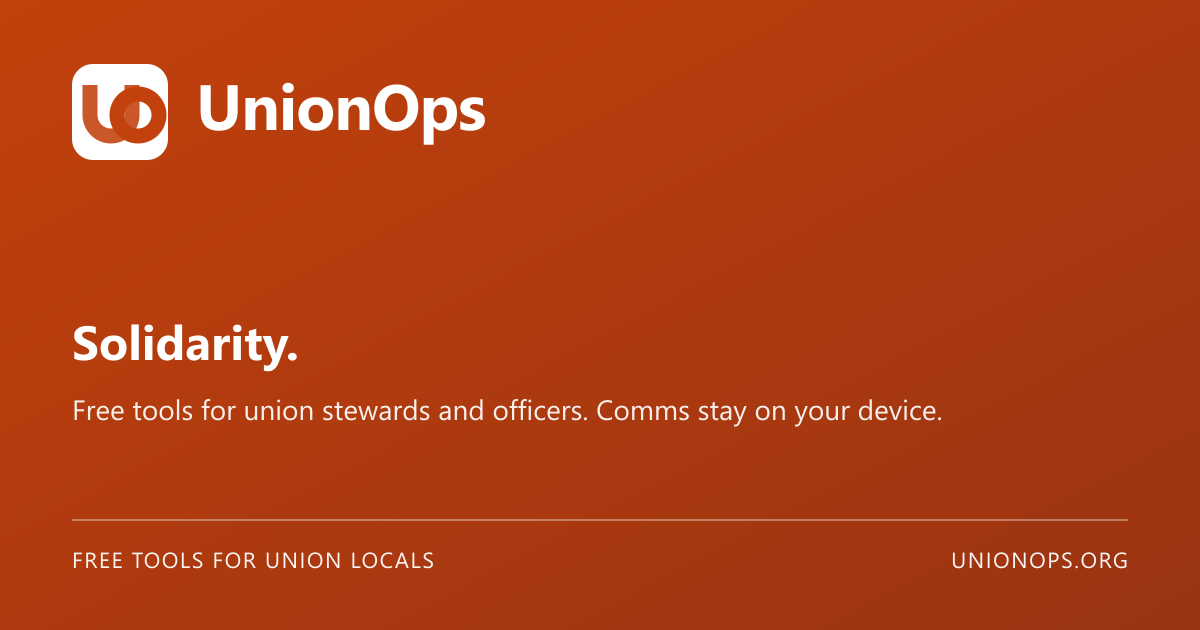
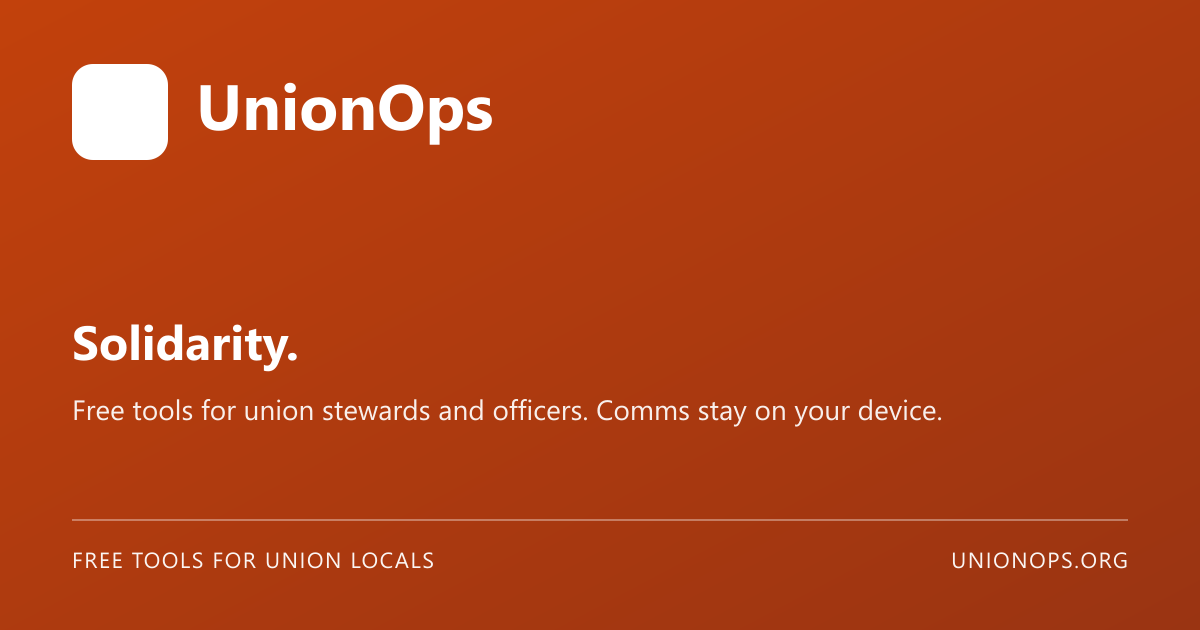
feat(brand): use interlocking PNG mark with CSS-mask tint
Drive UnionOpsMark from logo-mark-interlock.png (kept beside the SVG set), overlay Brand Kit colours, and swap to a white back plate on dark / Brand Kit preview.

Changed region(s): [[0.2158, 0.1206, 0.4317, 0.2413], [0.0617, 0.1206, 0.1542, 0.2413]]

diff --git a/src/components/brand/UnionOpsMark.tsx b/src/components/brand/UnionOpsMark.tsx
@@ -2,13 +2,7 @@
 
 import { cn } from "@/lib/utils";
 import { BRAND_COLORS } from "@/lib/constants/brand";
-import {
-  UNIONOPS_MARK_VIEWBOX,
-  UNIONOPS_O,
-  UNIONOPS_U_OPACITY,
-  UNIONOPS_U_PATH,
-  UNIONOPS_U_STROKE_WIDTH,
-} from "@/lib/brand/unionops-mark-geometry";
+import { UNIONOPS_LOGOS } from "@/lib/constants/unionPresets";
 
 const sizePx = {
   sm: 32,
@@ -18,19 +12,21 @@ const sizePx = {
 
 interface UnionOpsMarkProps {
   primaryColor?: string;
-  /** Graphics accent — colours the interlocking u (and plated glyphs). */
+  /** Graphics accent — glyph colour on the primary plate (light chrome). */
   secondaryColor?: string;
   size?: "sm" | "md" | "lg";
   className?: string;
-  /** Flat two-tone mark for dark / brand-coloured backgrounds (no plate). */
+  /**
+   * Dark / brand backgrounds: white back plate + primary glyph.
+   * Light chrome: primary plate + graphics-accent glyph.
+   */
   onDark?: boolean;
   title?: string;
 }
 
 /**
- * Inline UnionOps interlocking u+o mark.
- * Primary → o; graphics accent (secondary) → u.
- * Light chrome uses a primary plate so a light accent stays legible.
+ * UnionOps interlocking u+o mark — PNG base with CSS-mask colour overlay.
+ * Asset: `UNIONOPS_LOGOS.markInterlock` (kept alongside the SVG set).
  */
 export function UnionOpsMark({
   primaryColor = BRAND_COLORS.primary,
@@ -41,40 +37,36 @@ export function UnionOpsMark({
   title = "UnionOps",
 }: UnionOpsMarkProps) {
   const px = sizePx[size];
-  const uColor = secondaryColor;
-  const oColor = onDark ? primaryColor : secondaryColor;
+  // Swap back to white when on dark / Brand Kit dark preview
+  const plate = onDark ? "#FFFFFF" : primaryColor;
+  const glyph = onDark ? primaryColor : secondaryColor;
 
   return (
-    <svg
-      xmlns="http://www.w3.org/2000/svg"
-      viewBox={UNIONOPS_MARK_VIEWBOX}
-      width={px}
-      height={px}
+    <span
       role="img"
       aria-label={title}
-      className={cn("shrink-0", className)}
+      title={title}
+      className={cn(
+        "inline-flex shrink-0 overflow-hidden rounded-[22%]",
+        className,
+      )}
+      style={{ width: px, height: px, backgroundColor: plate }}
     >
-      <title>{title}</title>
-      {!onDark ? (
-        <rect width="64" height="64" rx="14" fill={primaryColor} />
-      ) : null}
-      <circle
-        cx={UNIONOPS_O.cx}
-        cy={UNIONOPS_O.cy}
-        r={UNIONOPS_O.r}
-        fill="none"
-        stroke={oColor}
-        strokeWidth={UNIONOPS_O.strokeWidth}
+      <span
+        aria-hidden
+        className="block size-full"
+        style={{
+          backgroundColor: glyph,
+          WebkitMaskImage: `url(${UNIONOPS_LOGOS.markInterlock})`,
+          maskImage: `url(${UNIONOPS_LOGOS.markInterlock})`,
+          WebkitMaskSize: "78%",
+          maskSize: "78%",
+          WebkitMaskRepeat: "no-repeat",
+          maskRepeat: "no-repeat",
+          WebkitMaskPosition: "center",
+          maskPosition: "center",
+        }}
       />
-      <path
-        d={UNIONOPS_U_PATH}
-        fill="none"
-        stroke={uColor}
-        strokeWidth={UNIONOPS_U_STROKE_WIDTH}
-        strokeLinecap="butt"
-        strokeLinejoin="round"
-        opacity={UNIONOPS_U_OPACITY}
-      />
-    </svg>
+    </span>
   );
 }

diff --git a/src/app/opengraph-image.tsx b/src/app/opengraph-image.tsx
@@ -1,17 +1,13 @@
 import { ImageResponse } from "next/og";
 import { PLATFORM_UNION_ORANGE } from "@/lib/constants/unionPresets";
-import { SITE_NAME } from "@/lib/seo/site";
-import {
-  UNIONOPS_O,
-  UNIONOPS_U_OPACITY,
-  UNIONOPS_U_PATH,
-  UNIONOPS_U_STROKE_WIDTH,
-} from "@/lib/brand/unionops-mark-geometry";
+import { SITE_NAME, SITE_URL } from "@/lib/seo/site";
 
 export const runtime = "edge";
 export const alt = `${SITE_NAME} - Solidarity.`;
 export const size = { width: 1200, height: 630 };
 export const contentType = "image/png";
+
+const MARK_SRC = `${SITE_URL}/assets/unionops/logo-mark-interlock.png`;
 
 export default function OpenGraphImage() {
   const primary = PLATFORM_UNION_ORANGE.primary;
@@ -33,26 +29,27 @@ export default function OpenGraphImage() {
         }}
       >
         <div style={{ display: "flex", alignItems: "center", gap: 28 }}>
-          <svg width="96" height="96" viewBox="0 0 64 64">
-            <rect width="64" height="64" rx="14" fill="#FFFFFF" />
-            <circle
-              cx={UNIONOPS_O.cx}
-              cy={UNIONOPS_O.cy}
-              r={UNIONOPS_O.r}
-              fill="none"
-              stroke={primary}
-              strokeWidth={UNIONOPS_O.strokeWidth}
+          <div
+            style={{
+              display: "flex",
+              width: 96,
+              height: 96,
+              borderRadius: 21,
+              backgroundColor: "#FFFFFF",
+              alignItems: "center",
+              justifyContent: "center",
+            }}
+          >
+            {/* ImageResponse requires a plain img; next/image is unsupported here */}
+            {/* eslint-disable-next-line @next/next/no-img-element */}
+            <img
+              src={MARK_SRC}
+              width={72}
+              height={72}
+              alt=""
+              style={{ objectFit: "contain" }}
             />
-            <path
-              d={UNIONOPS_U_PATH}
-              fill="none"
-              stroke={primary}
-              strokeWidth={UNIONOPS_U_STROKE_WIDTH}
-              strokeLinecap="butt"
-              strokeLinejoin="round"
-              opacity={UNIONOPS_U_OPACITY}
-            />
-          </svg>
+          </div>
           <div
             style={{
               display: "flex",

diff --git a/src/lib/constants/unionPresets.ts b/src/lib/constants/unionPresets.ts
@@ -51,6 +51,8 @@ export const UNIONOPS_LOGOS = {
   lockup: "/assets/unionops/logo-lockup.svg",
   mark: "/assets/unionops/logo-mark.svg",
   markOnDark: "/assets/unionops/logo-mark-on-dark.svg",
+  /** Monochrome interlocking u+o PNG — live chrome via CSS mask in UnionOpsMark */
+  markInterlock: "/assets/unionops/logo-mark-interlock.png",
 } as const;
 
 export function isUnionOpsLogoSrc(src?: string | null): boolean {
@@ -59,7 +61,8 @@ export function isUnionOpsLogoSrc(src?: string | null): boolean {
   return (
     value === UNIONOPS_LOGOS.mark ||
     value === UNIONOPS_LOGOS.lockup ||
-    value === UNIONOPS_LOGOS.markOnDark
+    value === UNIONOPS_LOGOS.markOnDark ||
+    value === UNIONOPS_LOGOS.markInterlock
   );
 }
 
@@ -73,6 +76,22 @@ export type ResolvedUnionLogoPack = {
 function nonEmpty(src: string | undefined): string | undefined {
   const trimmed = src?.trim();
   return trimmed ? trimmed : undefined;
+}
+
+/**
+ * True when the preset declares its own lockup + mark assets (not UnionOps fallbacks).
+ * Brand Kit only offers union-specific wordmark/mark radios when this is true.
+ * Today only OPSEU ships attached logos; other presets omit `logos` until assets land.
+ */
+export function hasAttachedUnionLogos(
+  logos?: UnionLogoPack | null,
+): boolean {
+  if (!logos) return false;
+  const lockup = nonEmpty(logos.lockup);
+  const mark = nonEmpty(logos.mark);
+  if (!lockup || !mark) return false;
+  if (isUnionOpsLogoSrc(lockup) || isUnionOpsLogoSrc(mark)) return false;
+  return true;
 }
 
 /** Fill missing logo paths with UnionOps so UI never points at empty srcs. */
@@ -121,10 +140,7 @@ export const UNION_PRESETS: UnionBranding[] = [
     primaryColor: "#E5007D",
     secondaryColor: "#FFFFFF",
     defaultSlogans: ["On the front line."],
-    logos: {
-      lockup: "/assets/unions/cupe/logo.svg",
-      mark: "/assets/unions/cupe/logo-mark.svg",
-    },
+    // No attached logos yet — Brand Kit shows UnionOps mark + upload only
   },
   {
     id: "unifor",
@@ -132,10 +148,6 @@ export const UNION_PRESETS: UnionBranding[] = [
     primaryColor: "#ED1B2F",
     secondaryColor: "#FFFFFF",
     defaultSlogans: ["A union for everyone."],
-    logos: {
-      lockup: "/assets/unions/unifor/logo.svg",
-      mark: "/assets/unions/unifor/logo-mark.svg",
-    },
   },
   {
     id: "usw",
@@ -143,10 +155,6 @@ export const UNION_PRESETS: UnionBranding[] = [
     primaryColor: "#002A5C",
     secondaryColor: "#FFC72C",
     defaultSlogans: ["Unity and Strength for Workers."],
-    logos: {
-      lockup: "/assets/unions/usw/logo.svg",
-      mark: "/assets/unions/usw/logo-mark.svg",
-    },
   },
   {
     id: "ona",
@@ -154,10 +162,6 @@ export const UNION_PRESETS: UnionBranding[] = [
     primaryColor: "#003865",
     secondaryColor: "#FFD100",
     defaultSlogans: ["Stand up, speak out."],
-    logos: {
-      lockup: "/assets/unions/ona/logo.svg",
-      mark: "/assets/unions/ona/logo-mark.svg",
-    },
   },
   {
     id: "psac",
@@ -165,10 +169,6 @@ export const UNION_PRESETS: UnionBranding[] = [
     primaryColor: "#E31837",
     secondaryColor: "#FFFFFF",
     defaultSlogans: ["Here for Canada."],
-    logos: {
-      lockup: "/assets/unions/psac/logo.svg",
-      mark: "/assets/unions/psac/logo-mark.svg",
-    },
   },
   {
     id: "other",
@@ -235,8 +235,7 @@ export function brandFieldsFromUnionPreset(
   return {
     ...colors,
     useOfficialLogo: false,
-    // Platform mark — BrandLogo / UnionOpsMark tints interlocking u+o
-    // (primary → o / plate; secondary → u)
+    // Platform mark — BrandLogo / UnionOpsMark CSS-masks logo-mark-interlock.png
     customLogoDataUrl: UNIONOPS_LOGOS.mark,
     logoText,
     unionPresetId: preset.id,

diff --git a/src/components/brand/LogoSettings.tsx b/src/components/brand/LogoSettings.tsx
@@ -304,12 +304,21 @@ export function LogoSettings({
                     )}
                   >
                     {option.preview.platformMark ? (
-                      <UnionOpsMark
-                        primaryColor={primaryColor}
-                        secondaryColor={secondaryColor}
-                        size="md"
-                        onDark={option.preview.onDark}
-                      />
+                      <span className="flex flex-wrap items-center gap-3">
+                        <UnionOpsMark
+                          primaryColor={primaryColor}
+                          secondaryColor={secondaryColor}
+                          size="md"
+                        />
+                        <span className="inline-flex items-center justify-center rounded-lg bg-opseu-dark p-2">
+                          <UnionOpsMark
+                            primaryColor={primaryColor}
+                            secondaryColor={secondaryColor}
+                            size="md"
+                            onDark
+                          />
+                        </span>
+                      </span>
                     ) : (
                       <SafeLogoImage
                         src={option.preview.src!}

diff --git a/src/components/brand/SafeLogoImage.tsx b/src/components/brand/SafeLogoImage.tsx
@@ -33,7 +33,8 @@ export function SafeLogoImage({
   const isUnionOps =
     current === UNIONOPS_LOGOS.mark ||
     current === UNIONOPS_LOGOS.markOnDark ||
-    current === UNIONOPS_LOGOS.lockup;
+    current === UNIONOPS_LOGOS.lockup ||
+    current === UNIONOPS_LOGOS.markInterlock;
 
   return (
     // eslint-disable-next-line @next/next/no-img-element -- asset logos need load-error fallback

diff --git a/src/components/brand/BrandLogo.tsx b/src/components/brand/BrandLogo.tsx
@@ -63,7 +63,7 @@ export function BrandLogo({ size = "sm", className, onDark = false }: BrandLogoP
   const secondaryColor = brandKit.secondaryColor || BRAND_COLORS.secondary;
   const dims = markSize[size];
 
-  // Platform interlocking u+o — primary → o / plate; graphics accent → u
+  // Platform interlocking PNG — BrandLogo / UnionOpsMark masks + tints it
   const platformMark = (
     <UnionOpsMark
       primaryColor={primaryColor}

diff --git a/public/assets/unionops/source/README.md b/public/assets/unionops/source/README.md
@@ -1,16 +1,16 @@
 # UnionOps platform logo sources
 
-Reference rasters for the interlocking **u** + **o** mark (not used at runtime):
+| File | Role |
+|------|------|
+| `uo-mark-interlock.png` | **Canonical** monochrome interlocking u+o (runtime base) |
+| `uo-mark.png` | Earlier two-tone photo reference |
+| `uo-lockup.png` | Mark + `unionops` wordmark photo reference |
+
+Live assets under `../`:
 
 | File | Role |
 |------|------|
-| `uo-mark.png` | Square mark (photo reference) |
-| `uo-lockup.png` | Mark + `unionops` wordmark (photo reference) |
+| `logo-mark-interlock.png` | PNG base for `UnionOpsMark` (CSS-mask tint) |
+| `logo-mark.svg` / `logo-mark-on-dark.svg` / `logo-lockup.svg` | Fallback SVG set (kept alongside) |
 
-Live assets (Brand Kit colours applied in `UnionOpsMark`):
-
-- `../logo-mark.svg` — primary plate + graphics-accent glyphs
-- `../logo-mark-on-dark.svg` — flat two-tone (accent u, primary o)
-- `../logo-lockup.svg` — plated mark + split wordmark
-
-Colour mapping: **primary** → o / ops / plate; **graphics accent (secondary)** → u / union. Ignore charcoal from these photos.
+**Brand Kit:** primary plate + graphics-accent glyph; `onDark` swaps the back plate to **white** and tints the mark with primary.

diff --git a/docs/PROGRESS.md b/docs/PROGRESS.md
@@ -232,3 +232,5 @@ Cursor agent rules updated 2026-07-11: `roadmap-next.mdc`, `hybrid-qol.mdc`, ref
 - [x] Brand Kit primary → o / plate; graphics accent (secondary) → u (ignore photo charcoal)
 - [x] Live tint via `UnionOpsMark` + static `public/assets/unionops/*.svg`; source PNGs in `source/`
 - [x] Favicon `src/app/icon.svg` + OG/Twitter mark in `opengraph-image.tsx`
+- [x] Canonical monochrome PNG `logo-mark-interlock.png` — CSS-mask overlay (not live SVG paths); `onDark` white back plate
+- [x] Favicon `src/app/icon.png`; OG embeds interlock PNG on white plate